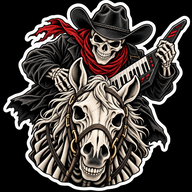
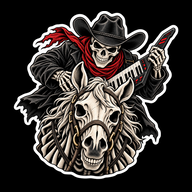
Add files via upload

diff --git a/song-rider/index.html b/song-rider/index.html
@@ -6,9 +6,9 @@
   <meta name="viewport" content="width=device-width,initial-scale=1,viewport-fit=cover"/>
   <meta name="theme-color" content="#e9e9ea"/>
   <title>Song Rider Pro</title>
-  <link rel="icon" href="./icon-192.png?v=3.2.4" type="image/png">
-  <link rel="apple-touch-icon" href="./apple-touch-icon.png?v=3.2.4">
-  <link rel="manifest" href="./manifest.webmanifest?v=3.2.4">
+  <link rel="icon" href="./icon-192.png?v=3.2.5" type="image/png">
+  <link rel="apple-touch-icon" href="./apple-touch-icon.png?v=3.2.5">
+  <link rel="manifest" href="./manifest.webmanifest?v=3.2.5">
   <style>
     :root{
     --horseRunH: 74px;   /* running GIF size */

diff --git a/song-rider/service-worker.js b/song-rider/service-worker.js
@@ -1,4 +1,4 @@
-const CACHE = 'song-rider-suite-v3.2.4-app-icon';
+const CACHE = 'song-rider-suite-v3.2.5-padded-app-icon';
 const ASSETS = [
   './song-rider/suite-header-master.png',
   './song-rider/branding-shell.css',
@@ -21,9 +21,9 @@ const ASSETS = [
   './parts.js',
   './beat-maker.js',
   './manifest.webmanifest',
-  './icon-192.png',
-  './icon-512.png',
   './apple-touch-icon.png',
+  './icon-512.png',
+  './icon-192.png',
   './assets/rider-and-bones-icon.png',
   './assets/rider-and-bones-left.gif',
   './assets/rider-and-bones-right.gif',
